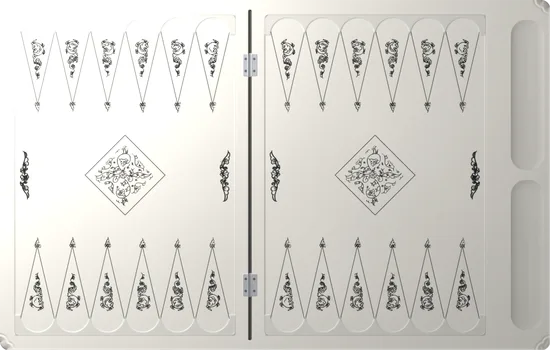
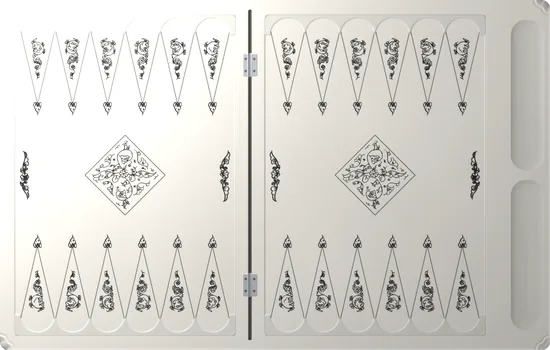
«Гравюра»: гравировка выровнена — завитки одной высоты и ровно по оси пунктов, одинаковое «пламя» на вершинах, узор ромба точно по центру рамки
Claude-Session: https://claude.ai/code/session_013vq6NREHT7txoK1nXmxN83

diff --git a/index.html b/index.html
@@ -1023,10 +1023,10 @@ function probeFps(){
 }
 // GAME_VERSION — для людей, меняется при крупных обновлениях; APP_VERSION — номер сборки для кэша, растёт при каждой выкладке
 const GAME_VERSION='1.0';
-const APP_VERSION='140';   // совпадает с V в sw.js: номер сборки (имя кэша)
+const APP_VERSION='141';   // совпадает с V в sw.js: номер сборки (имя кэша)
 // AV — короткие хеши содержимого картинок (их пишет tools/stamp.py): адрес меняется, только когда меняется сам файл,
 // поэтому после обновления заново качается лишь то, что изменилось
-/*AV*/const AV={"boards/ararat-thumb.webp":"72ff05c2","boards/ararat.webp":"7c44b1ce","boards/ck-beech.png":"ef00f4f8","boards/ck-bronze.png":"db6b57b9","boards/ck-copper.png":"761c282a","boards/ck-gold.png":"87fddeef","boards/ck-ivory.png":"372b72ce","boards/ck-khatam.png":"8a67a596","boards/ck-khatamd.png":"fc76598b","boards/ck-onyx.png":"bfb41b3a","boards/ck-pearl.png":"83aaf841","boards/ck-pomegranate.png":"73a5236d","boards/ck-silver.png":"18222740","boards/ck-walnut.png":"1857427e","boards/ckside-beech.png":"2e4a01b1","boards/ckside-bronze.png":"700fbb0d","boards/ckside-copper.png":"54a53742","boards/ckside-gold.png":"f3c3b036","boards/ckside-ivory.png":"cce1b2d9","boards/ckside-khatam.png":"ba9fea77","boards/ckside-khatamd.png":"bb2cd930","boards/ckside-onyx.png":"3695f6bf","boards/ckside-pearl.png":"d9c5e6f3","boards/ckside-pomegranate.png":"79fe0975","boards/ckside-silver.png":"6d16c666","boards/ckside-walnut.png":"bc0fa647","boards/die-1.png":"2d6046dd","boards/die-2.png":"dba1ef51","boards/die-3.png":"c4754c62","boards/die-4.png":"c26495e1","boards/die-5.png":"49661381","boards/die-6.png":"3d46b683","boards/die-amber-1.png":"105d06f3","boards/die-amber-2.png":"f7695264","boards/die-amber-3.png":"518fcc5b","boards/die-amber-4.png":"82e42d65","boards/die-amber-5.png":"a53a1fed","boards/die-amber-6.png":"6114a46b","boards/die-gold-1.png":"606f1c7a","boards/die-gold-2.png":"68eb7219","boards/die-gold-3.png":"4abf64c2","boards/die-gold-4.png":"7ff8a963","boards/die-gold-5.png":"9f589a63","boards/die-gold-6.png":"f67c180d","boards/die-wood-1.png":"f9fecd23","boards/die-wood-2.png":"dad9e71b","boards/die-wood-3.png":"ebe40557","boards/die-wood-4.png":"f8c4f6d2","boards/die-wood-5.png":"239c202c","boards/die-wood-6.png":"ea05a4a3","boards/glass-thumb.webp":"5db12bdb","boards/glass.webp":"3fe1cddb","boards/goldrev-med-l.webp":"875c719a","boards/goldrev-med-r.webp":"beae367a","boards/goldrev-thumb.webp":"1b2ad914","boards/goldrev.webp":"898ad659","boards/gravura-thumb.webp":"1af0eaf1","boards/gravura.webp":"2f18ba2f","boards/intro-rev-w.webp":"c1e7a4bf","boards/intro-rev.webp":"9627dbfd","boards/leafshade.webp":"8666bd89","boards/lid-plain.webp":"32dbab24","boards/lid.webp":"47f4a845","boards/maple.webp":"c7e0d43c","boards/night-thumb.webp":"61a42599","boards/night.webp":"96cd9880","boards/plaque.webp":"6c60c0b6","boards/pomegranate-thumb.webp":"d5574e56","boards/pomegranate.webp":"a89189f5","boards/prop-beads.webp":"01fd0477","boards/prop-cup.webp":"67e8e539","boards/prop-pack.webp":"a1f55e5d","boards/pt-ararat-long.png":"b706af0c","boards/pt-ararat-short.png":"0d9bdbb6","boards/pt-glass-long.png":"2474d3b3","boards/pt-glass-short.png":"2474d3b3","boards/pt-goldrev-long.png":"b706af0c","boards/pt-goldrev-short.png":"0d9bdbb6","boards/pt-gravura-long.png":"2b63381b","boards/pt-gravura-short.png":"2b63381b","boards/pt-night-long.png":"c9576df0","boards/pt-night-short.png":"c9576df0","boards/pt-pomegranate-long.png":"b706af0c","boards/pt-pomegranate-short.png":"0d9bdbb6","boards/pt-sevan-long.png":"b706af0c","boards/pt-sevan-short.png":"0d9bdbb6","boards/pt-yerevan-long.png":"f28ec383","boards/pt-yerevan-short.png":"78fa0ed8","boards/sevan-thumb.webp":"35db3522","boards/sevan.webp":"56ec51be","boards/table.webp":"d353fc6c","boards/walnut-plank.webp":"3f05219c","boards/yerevan-thumb.webp":"4817779b","boards/yerevan.webp":"64e36c39"};/*/AV*/
+/*AV*/const AV={"boards/ararat-thumb.webp":"72ff05c2","boards/ararat.webp":"7c44b1ce","boards/ck-beech.png":"ef00f4f8","boards/ck-bronze.png":"db6b57b9","boards/ck-copper.png":"761c282a","boards/ck-gold.png":"87fddeef","boards/ck-ivory.png":"372b72ce","boards/ck-khatam.png":"8a67a596","boards/ck-khatamd.png":"fc76598b","boards/ck-onyx.png":"bfb41b3a","boards/ck-pearl.png":"83aaf841","boards/ck-pomegranate.png":"73a5236d","boards/ck-silver.png":"18222740","boards/ck-walnut.png":"1857427e","boards/ckside-beech.png":"2e4a01b1","boards/ckside-bronze.png":"700fbb0d","boards/ckside-copper.png":"54a53742","boards/ckside-gold.png":"f3c3b036","boards/ckside-ivory.png":"cce1b2d9","boards/ckside-khatam.png":"ba9fea77","boards/ckside-khatamd.png":"bb2cd930","boards/ckside-onyx.png":"3695f6bf","boards/ckside-pearl.png":"d9c5e6f3","boards/ckside-pomegranate.png":"79fe0975","boards/ckside-silver.png":"6d16c666","boards/ckside-walnut.png":"bc0fa647","boards/die-1.png":"2d6046dd","boards/die-2.png":"dba1ef51","boards/die-3.png":"c4754c62","boards/die-4.png":"c26495e1","boards/die-5.png":"49661381","boards/die-6.png":"3d46b683","boards/die-amber-1.png":"105d06f3","boards/die-amber-2.png":"f7695264","boards/die-amber-3.png":"518fcc5b","boards/die-amber-4.png":"82e42d65","boards/die-amber-5.png":"a53a1fed","boards/die-amber-6.png":"6114a46b","boards/die-gold-1.png":"606f1c7a","boards/die-gold-2.png":"68eb7219","boards/die-gold-3.png":"4abf64c2","boards/die-gold-4.png":"7ff8a963","boards/die-gold-5.png":"9f589a63","boards/die-gold-6.png":"f67c180d","boards/die-wood-1.png":"f9fecd23","boards/die-wood-2.png":"dad9e71b","boards/die-wood-3.png":"ebe40557","boards/die-wood-4.png":"f8c4f6d2","boards/die-wood-5.png":"239c202c","boards/die-wood-6.png":"ea05a4a3","boards/glass-thumb.webp":"5db12bdb","boards/glass.webp":"3fe1cddb","boards/goldrev-med-l.webp":"875c719a","boards/goldrev-med-r.webp":"beae367a","boards/goldrev-thumb.webp":"1b2ad914","boards/goldrev.webp":"898ad659","boards/gravura-thumb.webp":"8ccf7340","boards/gravura.webp":"8d2f6ae3","boards/intro-rev-w.webp":"c1e7a4bf","boards/intro-rev.webp":"9627dbfd","boards/leafshade.webp":"8666bd89","boards/lid-plain.webp":"32dbab24","boards/lid.webp":"47f4a845","boards/maple.webp":"c7e0d43c","boards/night-thumb.webp":"61a42599","boards/night.webp":"96cd9880","boards/plaque.webp":"6c60c0b6","boards/pomegranate-thumb.webp":"d5574e56","boards/pomegranate.webp":"a89189f5","boards/prop-beads.webp":"01fd0477","boards/prop-cup.webp":"67e8e539","boards/prop-pack.webp":"a1f55e5d","boards/pt-ararat-long.png":"b706af0c","boards/pt-ararat-short.png":"0d9bdbb6","boards/pt-glass-long.png":"2474d3b3","boards/pt-glass-short.png":"2474d3b3","boards/pt-goldrev-long.png":"b706af0c","boards/pt-goldrev-short.png":"0d9bdbb6","boards/pt-gravura-long.png":"2b63381b","boards/pt-gravura-short.png":"2b63381b","boards/pt-night-long.png":"c9576df0","boards/pt-night-short.png":"c9576df0","boards/pt-pomegranate-long.png":"b706af0c","boards/pt-pomegranate-short.png":"0d9bdbb6","boards/pt-sevan-long.png":"b706af0c","boards/pt-sevan-short.png":"0d9bdbb6","boards/pt-yerevan-long.png":"f28ec383","boards/pt-yerevan-short.png":"78fa0ed8","boards/sevan-thumb.webp":"35db3522","boards/sevan.webp":"56ec51be","boards/table.webp":"d353fc6c","boards/walnut-plank.webp":"3f05219c","boards/yerevan-thumb.webp":"4817779b","boards/yerevan.webp":"64e36c39"};/*/AV*/
 const av=p=>p+'?v='+(AV[p]||APP_VERSION);
 const NS='http://www.w3.org/2000/svg';
 const f2=v=>(+v).toFixed(1);

diff --git a/sw.js b/sw.js
@@ -1,8 +1,8 @@
 // Офлайн-кэш: страница, доски, звуки и шрифты кэшируются при установке.
-const V = '140';                 // = APP_VERSION в index.html
+const V = '141';                 // = APP_VERSION в index.html
 const VERSION = 'nardy-v' + V;
 // хеши содержимого картинок — те же, что AV в index.html (пишет tools/stamp.py)
-/*AV*/const AV={"boards/ararat-thumb.webp":"72ff05c2","boards/ararat.webp":"7c44b1ce","boards/ck-beech.png":"ef00f4f8","boards/ck-bronze.png":"db6b57b9","boards/ck-copper.png":"761c282a","boards/ck-gold.png":"87fddeef","boards/ck-ivory.png":"372b72ce","boards/ck-khatam.png":"8a67a596","boards/ck-khatamd.png":"fc76598b","boards/ck-onyx.png":"bfb41b3a","boards/ck-pearl.png":"83aaf841","boards/ck-pomegranate.png":"73a5236d","boards/ck-silver.png":"18222740","boards/ck-walnut.png":"1857427e","boards/ckside-beech.png":"2e4a01b1","boards/ckside-bronze.png":"700fbb0d","boards/ckside-copper.png":"54a53742","boards/ckside-gold.png":"f3c3b036","boards/ckside-ivory.png":"cce1b2d9","boards/ckside-khatam.png":"ba9fea77","boards/ckside-khatamd.png":"bb2cd930","boards/ckside-onyx.png":"3695f6bf","boards/ckside-pearl.png":"d9c5e6f3","boards/ckside-pomegranate.png":"79fe0975","boards/ckside-silver.png":"6d16c666","boards/ckside-walnut.png":"bc0fa647","boards/die-1.png":"2d6046dd","boards/die-2.png":"dba1ef51","boards/die-3.png":"c4754c62","boards/die-4.png":"c26495e1","boards/die-5.png":"49661381","boards/die-6.png":"3d46b683","boards/die-amber-1.png":"105d06f3","boards/die-amber-2.png":"f7695264","boards/die-amber-3.png":"518fcc5b","boards/die-amber-4.png":"82e42d65","boards/die-amber-5.png":"a53a1fed","boards/die-amber-6.png":"6114a46b","boards/die-gold-1.png":"606f1c7a","boards/die-gold-2.png":"68eb7219","boards/die-gold-3.png":"4abf64c2","boards/die-gold-4.png":"7ff8a963","boards/die-gold-5.png":"9f589a63","boards/die-gold-6.png":"f67c180d","boards/die-wood-1.png":"f9fecd23","boards/die-wood-2.png":"dad9e71b","boards/die-wood-3.png":"ebe40557","boards/die-wood-4.png":"f8c4f6d2","boards/die-wood-5.png":"239c202c","boards/die-wood-6.png":"ea05a4a3","boards/glass-thumb.webp":"5db12bdb","boards/glass.webp":"3fe1cddb","boards/goldrev-med-l.webp":"875c719a","boards/goldrev-med-r.webp":"beae367a","boards/goldrev-thumb.webp":"1b2ad914","boards/goldrev.webp":"898ad659","boards/gravura-thumb.webp":"1af0eaf1","boards/gravura.webp":"2f18ba2f","boards/intro-rev-w.webp":"c1e7a4bf","boards/intro-rev.webp":"9627dbfd","boards/leafshade.webp":"8666bd89","boards/lid-plain.webp":"32dbab24","boards/lid.webp":"47f4a845","boards/maple.webp":"c7e0d43c","boards/night-thumb.webp":"61a42599","boards/night.webp":"96cd9880","boards/plaque.webp":"6c60c0b6","boards/pomegranate-thumb.webp":"d5574e56","boards/pomegranate.webp":"a89189f5","boards/prop-beads.webp":"01fd0477","boards/prop-cup.webp":"67e8e539","boards/prop-pack.webp":"a1f55e5d","boards/pt-ararat-long.png":"b706af0c","boards/pt-ararat-short.png":"0d9bdbb6","boards/pt-glass-long.png":"2474d3b3","boards/pt-glass-short.png":"2474d3b3","boards/pt-goldrev-long.png":"b706af0c","boards/pt-goldrev-short.png":"0d9bdbb6","boards/pt-gravura-long.png":"2b63381b","boards/pt-gravura-short.png":"2b63381b","boards/pt-night-long.png":"c9576df0","boards/pt-night-short.png":"c9576df0","boards/pt-pomegranate-long.png":"b706af0c","boards/pt-pomegranate-short.png":"0d9bdbb6","boards/pt-sevan-long.png":"b706af0c","boards/pt-sevan-short.png":"0d9bdbb6","boards/pt-yerevan-long.png":"f28ec383","boards/pt-yerevan-short.png":"78fa0ed8","boards/sevan-thumb.webp":"35db3522","boards/sevan.webp":"56ec51be","boards/table.webp":"d353fc6c","boards/walnut-plank.webp":"3f05219c","boards/yerevan-thumb.webp":"4817779b","boards/yerevan.webp":"64e36c39"};/*/AV*/
+/*AV*/const AV={"boards/ararat-thumb.webp":"72ff05c2","boards/ararat.webp":"7c44b1ce","boards/ck-beech.png":"ef00f4f8","boards/ck-bronze.png":"db6b57b9","boards/ck-copper.png":"761c282a","boards/ck-gold.png":"87fddeef","boards/ck-ivory.png":"372b72ce","boards/ck-khatam.png":"8a67a596","boards/ck-khatamd.png":"fc76598b","boards/ck-onyx.png":"bfb41b3a","boards/ck-pearl.png":"83aaf841","boards/ck-pomegranate.png":"73a5236d","boards/ck-silver.png":"18222740","boards/ck-walnut.png":"1857427e","boards/ckside-beech.png":"2e4a01b1","boards/ckside-bronze.png":"700fbb0d","boards/ckside-copper.png":"54a53742","boards/ckside-gold.png":"f3c3b036","boards/ckside-ivory.png":"cce1b2d9","boards/ckside-khatam.png":"ba9fea77","boards/ckside-khatamd.png":"bb2cd930","boards/ckside-onyx.png":"3695f6bf","boards/ckside-pearl.png":"d9c5e6f3","boards/ckside-pomegranate.png":"79fe0975","boards/ckside-silver.png":"6d16c666","boards/ckside-walnut.png":"bc0fa647","boards/die-1.png":"2d6046dd","boards/die-2.png":"dba1ef51","boards/die-3.png":"c4754c62","boards/die-4.png":"c26495e1","boards/die-5.png":"49661381","boards/die-6.png":"3d46b683","boards/die-amber-1.png":"105d06f3","boards/die-amber-2.png":"f7695264","boards/die-amber-3.png":"518fcc5b","boards/die-amber-4.png":"82e42d65","boards/die-amber-5.png":"a53a1fed","boards/die-amber-6.png":"6114a46b","boards/die-gold-1.png":"606f1c7a","boards/die-gold-2.png":"68eb7219","boards/die-gold-3.png":"4abf64c2","boards/die-gold-4.png":"7ff8a963","boards/die-gold-5.png":"9f589a63","boards/die-gold-6.png":"f67c180d","boards/die-wood-1.png":"f9fecd23","boards/die-wood-2.png":"dad9e71b","boards/die-wood-3.png":"ebe40557","boards/die-wood-4.png":"f8c4f6d2","boards/die-wood-5.png":"239c202c","boards/die-wood-6.png":"ea05a4a3","boards/glass-thumb.webp":"5db12bdb","boards/glass.webp":"3fe1cddb","boards/goldrev-med-l.webp":"875c719a","boards/goldrev-med-r.webp":"beae367a","boards/goldrev-thumb.webp":"1b2ad914","boards/goldrev.webp":"898ad659","boards/gravura-thumb.webp":"8ccf7340","boards/gravura.webp":"8d2f6ae3","boards/intro-rev-w.webp":"c1e7a4bf","boards/intro-rev.webp":"9627dbfd","boards/leafshade.webp":"8666bd89","boards/lid-plain.webp":"32dbab24","boards/lid.webp":"47f4a845","boards/maple.webp":"c7e0d43c","boards/night-thumb.webp":"61a42599","boards/night.webp":"96cd9880","boards/plaque.webp":"6c60c0b6","boards/pomegranate-thumb.webp":"d5574e56","boards/pomegranate.webp":"a89189f5","boards/prop-beads.webp":"01fd0477","boards/prop-cup.webp":"67e8e539","boards/prop-pack.webp":"a1f55e5d","boards/pt-ararat-long.png":"b706af0c","boards/pt-ararat-short.png":"0d9bdbb6","boards/pt-glass-long.png":"2474d3b3","boards/pt-glass-short.png":"2474d3b3","boards/pt-goldrev-long.png":"b706af0c","boards/pt-goldrev-short.png":"0d9bdbb6","boards/pt-gravura-long.png":"2b63381b","boards/pt-gravura-short.png":"2b63381b","boards/pt-night-long.png":"c9576df0","boards/pt-night-short.png":"c9576df0","boards/pt-pomegranate-long.png":"b706af0c","boards/pt-pomegranate-short.png":"0d9bdbb6","boards/pt-sevan-long.png":"b706af0c","boards/pt-sevan-short.png":"0d9bdbb6","boards/pt-yerevan-long.png":"f28ec383","boards/pt-yerevan-short.png":"78fa0ed8","boards/sevan-thumb.webp":"35db3522","boards/sevan.webp":"56ec51be","boards/table.webp":"d353fc6c","boards/walnut-plank.webp":"3f05219c","boards/yerevan-thumb.webp":"4817779b","boards/yerevan.webp":"64e36c39"};/*/AV*/
 const av = p => AV[p] ? p + '?v=' + AV[p] : p;
 const SHELL = [
   './',

diff --git a/tools/render_gravura.py b/tools/render_gravura.py
@@ -79,18 +79,20 @@ def build():
     INK = np.maximum(INK, lines(segs, 1.25, aa=.45))
     vines = [ink(f'vine{k}', True) for k in range(6)]
     fins = [ink(f'fin{k}', True) for k in range(6)]
-    sc = .43
+    VH, FH = 84, 27                                           # все завитки и «пламя» — одной высоты и ровно по оси пункта
     for i in range(24):
         x, t = ptX(i), is_top(i); k = (i * 5) % 6
-        v = vines[k]; vh, vw = v.shape[0] / 2 * sc, v.shape[1] / 2 * sc
-        stamp(INK, v, x - vw / 2, (bayY + 8) if t else (700 - bayY - 8 - vh), sc, flipv=not t, fliph=(i % 2 == 1))
-        f = fins[(k + 2) % 6]; fh, fw = f.shape[0] / 2 * sc, f.shape[1] / 2 * sc
-        stamp(INK, f, x - fw / 2, (TIP - 1) if t else (700 - TIP + 1 - fh), sc, flipv=not t)
-    # ромб в центре половины
+        v = vines[k]; sc = min(VH / (v.shape[0] / 2), 42 / (v.shape[1] / 2)); vh, vw = v.shape[0] / 2 * sc, v.shape[1] / 2 * sc
+        stamp(INK, v, x - vw / 2, (bayY + 6) if t else (700 - bayY - 6 - vh), sc, flipv=not t, fliph=(i % 2 == 1))
+        f = fins[0]; fs = FH / (f.shape[0] / 2); fh, fw = f.shape[0] / 2 * fs, f.shape[1] / 2 * fs
+        stamp(INK, f, x - fw / 2, (TIP - 1) if t else (700 - TIP + 1 - fh), fs, flipv=not t)
+    # ромб в центре половины: узор обрезан по себе и стоит ровно в центре рамки
     dm = ink('diamond'); R = 80
+    ys, xs = np.nonzero(dm > .25); dm = dm[ys.min():ys.max() + 1, xs.min():xs.max() + 1]
+    dsc = .86 * R / (max(dm.shape) / 4)
     for cx in (250, 750):
-        dsc = 2 * R / (dm.shape[1] / 2)
-        stamp(INK, dm, cx - R, 350 - dm.shape[0] / 2 * dsc / 2, dsc)
+        dw, dh = dm.shape[1] / 2 * dsc, dm.shape[0] / 2 * dsc
+        stamp(INK, dm, cx - dw / 2, 350 - dh / 2, dsc)
         INK = np.maximum(INK, lines([[(cx, 350 - R), (cx + R, 350), (cx, 350 + R), (cx - R, 350), (cx, 350 - R)]], 1.15, aa=.45))
     # узорные вставки у длинных краёв поля, как на фото
     side = ink('side'); s2 = ink('side2'); ssc = .52
